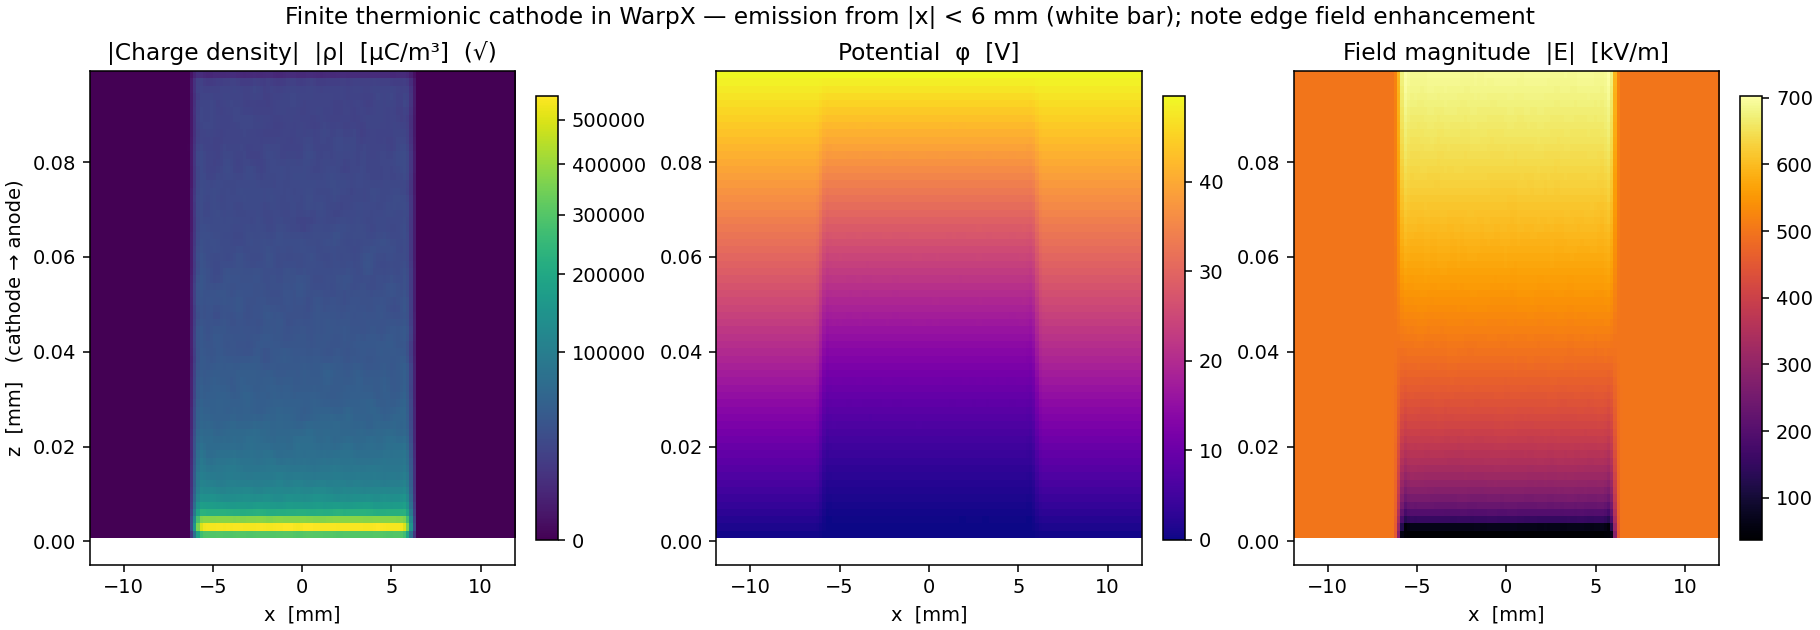
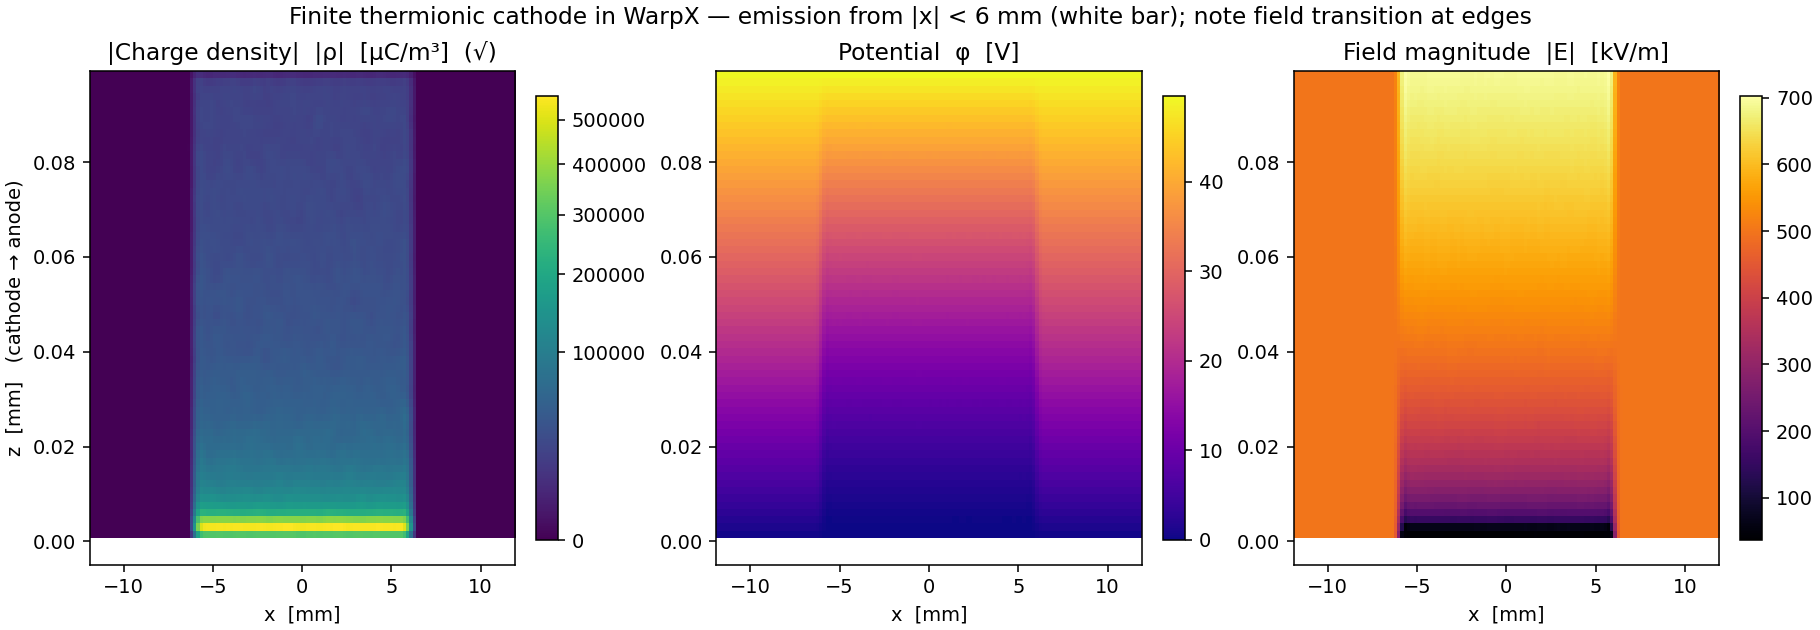
feat(cathode): add edge field-transition and source-emittance figures
field_lines.png — φ equipotential contours + E-field streamlines over the gap
with a zoom on the +x cathode edge, making the 2D field transition at the
emission edge visible: |E| climbs from the space-charge-suppressed emitting
surface to the uniform vacuum field V/d outside (monotonic, no overshoot).
emission_phase_space.png — the source's transverse phase space (x vs p_x, in
keV/c) and the 1200 K thermal momentum spread, annotated with the RMS normalized
emittance εn,x ≈ 1.57 mm·mrad (matches √(kT·mₑc²)).

Changed region(s): [[0.1538, 0.0, 0.8615, 0.0603]]

diff --git a/warpx_cathode/plot_cathode.py b/warpx_cathode/plot_cathode.py
@@ -1,7 +1,7 @@
 """
 Figures for the finite-cathode space-charge-limited diode (cathode_diode.py).
 
-Reads the openPMD output under warpx_cathode/diags/ and writes four figures to
+Reads the openPMD output under warpx_cathode/diags/ and writes six figures to
 warpx_cathode/results/:
 
   1. cathode_2d.png       — 2D maps of charge density, potential, |E|: shows the
@@ -12,6 +12,12 @@ warpx_cathode/results/:
                             even though we inject 2× J_CL.
   4. rho_z_time.png       — on-axis charge density rho(z, t): build-up of the
                             space-charge cloud filling the gap during turn-on.
+  5. field_lines.png      — equipotentials + E-field streamlines over the gap,
+                            with a zoom on the +x cathode edge, making the 2D
+                            edge field transition directly visible.
+  6. emission_phase_space.png — the cathode's intrinsic thermal transverse phase
+                            space (x vs. ux = γβ_x) and the RMS normalized
+                            emittance handed downstream to the gun.
 
 Run with:
     conda run -n CBB python warpx_cathode/plot_cathode.py
@@ -178,9 +184,150 @@ ax.set_title("On-axis charge density vs. time — space-charge cloud fills the g
 fig.savefig(f"{RESULTS}/rho_z_time.png", dpi=140)
 print(f"wrote {RESULTS}/rho_z_time.png")
 
+# ════════════════════════════════════════════════════════════════════════════════
+# Figure 5 — equipotentials + E-field streamlines: the 2D cathode-EDGE transition
+# ════════════════════════════════════════════════════════════════════════════════
+# Planar Child–Langmuir theory is purely 1D: flat equipotentials, straight Ez.
+# But the cathode is FINITE (emits only |x| < R), so the space-charge-suppressed
+# emitting strip abruptly meets the full vacuum field outside x = ±R.  At that
+# boundary the equipotentials crowd together and the field lines splay outward as
+# |E| climbs from its suppressed value on the emitting surface (≈0 at the cathode)
+# up to the uniform vacuum field outside — the field TRANSITION at the emission
+# edge that the planar theory cannot show.  (It is a transition, not an
+# overshoot: |E| rises monotonically to the vacuum value V/d and does not exceed
+# it.)  This figure makes that visible with φ contours overlaid on E-field
+# streamlines, in the full gap and zoomed onto the +x edge.
+#
+# streamplot needs 1-D coordinate vectors whose lengths match the array axes:
+# the field arrays are (nz, nx), so the call is streamplot(x_mm, z_mm, Ex, Ez)
+# with len(x_mm)=nx (columns) and len(z_mm)=nz (rows).
+x_mm = x * 1e3                       # nx, transverse [mm]
+z_mm = z * 1e3                       # nz, longitudinal [mm]
+# E in kV/m for the streamline colour/speed scale; sign/orientation untouched.
+Ex_k, Ez_k = ex * 1e-3, ez * 1e-3
+speed = np.sqrt(Ex_k**2 + Ez_k**2)   # |E| [kV/m], colours the streamlines
+phi_levels = np.linspace(phi.min(), V_anode, 12)   # ~12 equipotential lines
+
+fig, (p1, p2) = plt.subplots(1, 2, figsize=(13, 4.8), constrained_layout=True)
+
+
+def draw_field(ax, lw_speed=True):
+    """φ contours + E streamlines on the (x, z) gap; shared by both panels."""
+    cs = ax.contour(x_mm, z_mm, phi, levels=phi_levels,
+                    colors="0.25", linewidths=0.8)
+    ax.clabel(cs, inline=True, fontsize=6, fmt="%.0f V")
+    # streamline line width grows with |E| so the edge transition reads visually
+    lw = (1.4 * speed / speed.max() + 0.3) if lw_speed else 1.0
+    strm = ax.streamplot(x_mm, z_mm, Ex_k, Ez_k, color=speed, cmap="inferno",
+                         density=1.4, linewidth=lw, arrowsize=0.8)
+    # emitting patch (z = 0, |x| < R) as a white bar; cathode edges as dotted lines
+    ax.plot([-R_cathode * 1e3, R_cathode * 1e3], [0, 0], "w-", lw=4,
+            solid_capstyle="butt", zorder=5)
+    for xe in (-R_cathode * 1e3, R_cathode * 1e3):
+        ax.axvline(xe, color="cyan", ls=":", lw=1.2, zorder=4)
+    ax.set_xlabel("x  [mm]")
+    return strm
+
+
+# Panel 1 — full gap: equipotentials are flat in the cathode interior and bend
+# sharply right at x = ±R, where the emitting strip ends.
+strm = draw_field(p1)
+p1.set_ylabel("z  [mm]   (cathode → anode)")
+p1.set_xlim(x_mm.min(), x_mm.max())
+p1.set_ylim(0, z_mm.max())
+p1.set_title("Full gap: equipotentials + E streamlines")
+
+# Panel 2 — zoom on the +x edge (x ≈ 3–9 mm): the equipotential crowding and
+# streamline splay at x = +6 mm are the field transition, magnified.
+draw_field(p2)
+p2.set_xlim(3.0, 9.0)
+p2.set_ylim(0, z_mm.max())
+p2.set_xlabel("x  [mm]")
+p2.set_title("Zoom on +x cathode edge (x = +6 mm)")
+
+fig.colorbar(strm.lines, ax=[p1, p2], shrink=0.85, label="|E|  [kV/m]")
+fig.suptitle("2D field at the finite cathode — equipotentials crowd and field "
+             "lines splay at the edges x = ±6 mm (the field transition at the "
+             "emission edge)", fontsize=12)
+fig.savefig(f"{RESULTS}/field_lines.png", dpi=140)
+print(f"wrote {RESULTS}/field_lines.png")
+plt.close(fig)
+
+# ════════════════════════════════════════════════════════════════════════════════
+# Figure 6 — intrinsic thermal transverse phase space + emittance of the source
+# ════════════════════════════════════════════════════════════════════════════════
+# The 1200 K cathode emits electrons with a small Maxwellian transverse momentum
+# spread.  That thermal spread is the source's INTRINSIC (thermal) emittance — the
+# irreducible beam quality that every downstream stage (gun, prebuncher) inherits.
+# We read the last particle snapshot and form the transverse trace space x vs.
+# ux, where openPMD/WarpX store ux = γβ_x already (normalized transverse momentum),
+# so the RMS normalized emittance is εn,x = sqrt(⟨x²⟩⟨ux²⟩ − ⟨x·ux⟩²) directly.
+tsp = OpenPMDTimeSeries("warpx_cathode/diags/particles")
+itp = tsp.iterations[-1]                 # last particle snapshot
+xp, uxp, uzp, wp = tsp.get_particle(["x", "ux", "uz", "w"], iteration=itp)
+
+# Weighted central moments (all macroparticles carry equal weight here, but weight
+# the moments anyway so the emittance is correct for any weighting).
+xbar  = np.average(xp,  weights=wp)
+uxbar = np.average(uxp, weights=wp)
+x2  = np.average((xp - xbar) ** 2, weights=wp)
+ux2 = np.average((uxp - uxbar) ** 2, weights=wp)
+xux = np.average((xp - xbar) * (uxp - uxbar), weights=wp)
+emit_n = np.sqrt(max(x2 * ux2 - xux ** 2, 0.0))      # [m·rad]; ux is γβ_x
+emit_n_mm_mrad = emit_n * 1e6                         # m·rad → mm·mrad
+
+# Display the transverse momentum in keV/c:  p_x = γβ_x · m_e c²  (in keV/c, since
+# p_x·c = γβ_x·m_ec² is an energy).  The emittance above stays in γβ (mm·mrad).
+from scipy.constants import k as k_B, c
+MC2_keV = m_e * c ** 2 / q_e / 1e3                   # electron rest energy [keV]
+px = uxp * MC2_keV                                   # transverse momentum [keV/c]
+# Expected thermal momentum scale: p_th = √(m_e kT) = √(kT/m_ec²)·m_ec², i.e. in
+# keV/c, p_th = √(kT[keV]·m_ec²[keV]).
+T_cathode = 1200.0
+u_th  = np.sqrt(k_B * T_cathode / (m_e * c ** 2))    # rms of γβ_x (dimensionless)
+p_th  = u_th * MC2_keV                               # rms thermal momentum [keV/c]
+
+fig, (b1, b2) = plt.subplots(1, 2, figsize=(12, 4.8), constrained_layout=True)
+
+# Panel 1 — transverse phase space x [mm] vs p_x [keV/c], density via hexbin.
+hb = b1.hexbin(xp * 1e3, px, gridsize=70, cmap="viridis", mincnt=1)
+fig.colorbar(hb, ax=b1, label="macroparticles / bin")
+b1.set_xlabel("x  [mm]")
+b1.set_ylabel(r"$p_x$  [keV/$c$]")
+b1.set_title("Transverse phase space at the cathode")
+# Report the normalized emittance — the beam quality handed to the gun.
+b1.text(0.03, 0.97,
+        rf"$\varepsilon_{{n,x}} = {emit_n_mm_mrad:.3f}$ mm·mrad"
+        "\n" rf"$\sqrt{{\langle x^2\rangle}} = {np.sqrt(x2)*1e3:.2f}$ mm",
+        transform=b1.transAxes, va="top", ha="left", fontsize=9,
+        bbox=dict(boxstyle="round", fc="white", alpha=0.85))
+
+# Panel 2 — histogram of p_x: the thermal (1200 K) momentum spread [keV/c], with
+# the expected ±√(kT·m_ec²) scale overlaid.
+b2.hist(px, bins=120, color="C0", alpha=0.8, density=True)
+for s, lbl in ((+1, r"$\pm\sqrt{kT\,m_ec^2}$"), (-1, None)):
+    b2.axvline(s * p_th, color="k", ls="--", lw=1.2, label=lbl)
+b2.set_xlabel(r"$p_x$  [keV/$c$]")
+b2.set_ylabel("probability density")
+b2.set_title(f"Thermal transverse momentum spread ({T_cathode:.0f} K)")
+b2.legend(loc="upper right", fontsize=9)
+b2.text(0.03, 0.97,
+        rf"rms $p_x = {np.sqrt(ux2)*MC2_keV:.3f}$ keV/$c$"
+        "\n" rf"$\sqrt{{kT\,m_ec^2}} = {p_th:.3f}$ keV/$c$",
+        transform=b2.transAxes, va="top", ha="left", fontsize=9,
+        bbox=dict(boxstyle="round", fc="white", alpha=0.85))
+
+fig.suptitle("Intrinsic thermal emittance of the cathode — the source beam "
+             "quality inherited by the downstream gun", fontsize=12)
+fig.savefig(f"{RESULTS}/emission_phase_space.png", dpi=140)
+print(f"wrote {RESULTS}/emission_phase_space.png")
+plt.close(fig)
+
 # ── Quantitative sanity check ───────────────────────────────────────────────────
 J_final = J_trans[-1]
 print(f"\nJ_CL (theory)          = {J_CL:8.1f} A/m²")
 print(f"injected               = {over_inject*J_CL:8.1f} A/m²")
 print(f"transmitted (steady)   = {J_final:8.1f} A/m²  "
       f"({100*J_final/J_CL:.0f}% of J_CL)")
+print(f"thermal emittance εn,x = {emit_n_mm_mrad:8.4f} mm·mrad  "
+      f"(rms u_x = {np.sqrt(ux2)*1e3:.3f}e-3 vs √(kT/mc²) = {u_th*1e3:.3f}e-3)")

diff --git a/warpx_cathode/README.md b/warpx_cathode/README.md
@@ -100,6 +100,20 @@ On-axis charge density `|ρ|(z, t)` (√ scale) over the turn-on transient: the
 space-charge cloud building up and filling the gap (gap-fill ≈ 480 steps), drawn
 with `pcolormesh` on the true (non-uniform) time coordinates.
 
+### `field_lines.png` — the 2D cathode-edge field transition
+φ equipotential contours + E-field streamlines across the gap, with a zoom on the `+x` edge. At the
+cathode edges `x = ±6 mm` the equipotentials **crowd together** and the streamlines **splay** as
+`|E|` climbs from its space-charge-suppressed value on the emitting surface to the full vacuum field
+outside — the field **transition** at the emission edge (monotonic, no overshoot above `V/d`), the
+finite-cathode effect the 1D Child–Langmuir picture omits. (Contour companion to the `φ` panel of
+`cathode_2d.png`.)
+
+### `emission_phase_space.png` — intrinsic thermal emittance
+Transverse phase space `x` vs. `ux = γβ_x` and the histogram of `ux`, from the last particle
+snapshot. The RMS normalized emittance `εn,x ≈ 1.57 mm·mrad` (annotated) is the source's intrinsic
+thermal emittance, set by the 1200 K cathode — the beam quality handed to the gun. The run
+reproduces the expected thermal momentum spread `√(kT/mₑc²)`.
+
 ---
 
 ## Notes & possible extensions